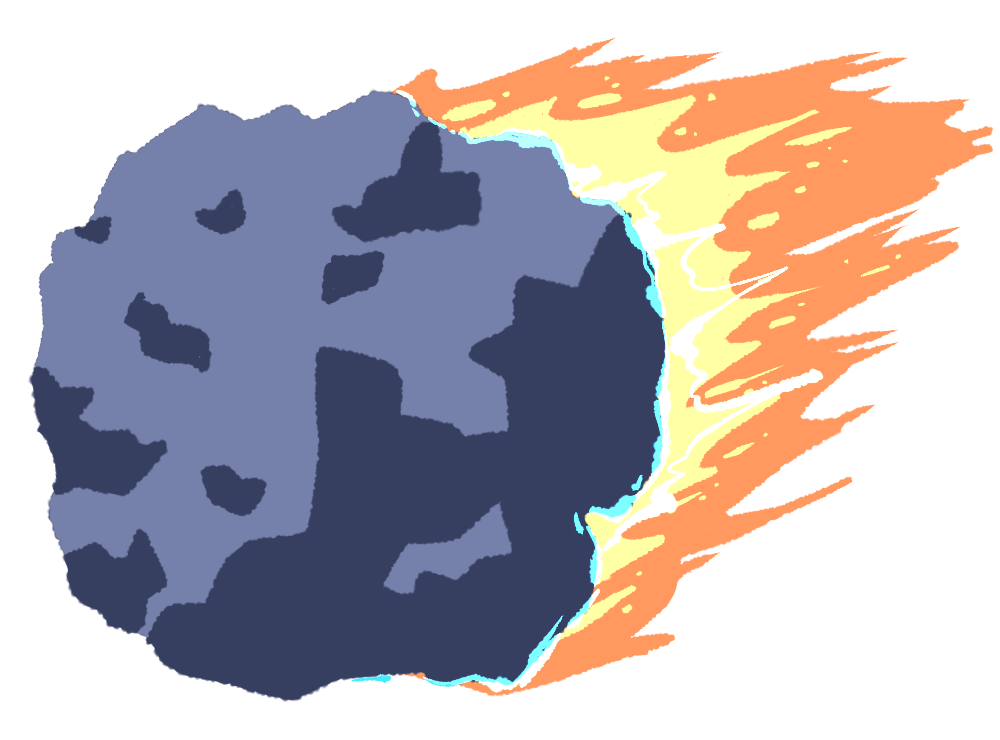
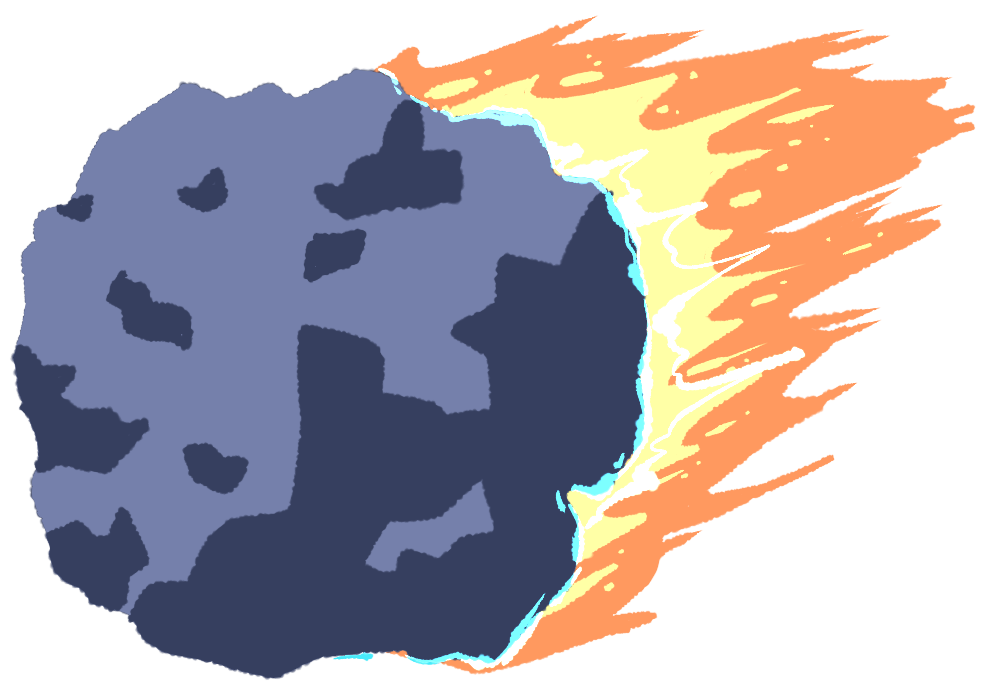
Made another meteor and fixed collision

diff --git a/src/scenes/Play.js b/src/scenes/Play.js
@@ -1,9 +1,9 @@
 class Play extends Phaser.Scene {
     constructor() {
         super("play");
-        this.ded = false;
+        this.ded = 0;
         this.fardplayed = false;
-        this.decimal = 1;
+        this.decimal = 0.8;
     }
 
     preload() {
@@ -11,13 +11,14 @@ class Play extends Phaser.Scene {
 
     create() {
         this.space = this.add.tileSprite(0, 0, 640, 740, 'space').setOrigin(0, 0);
-        this.harold = new Cat(this, game.config.width/2, game.config.height/7, 'harold', 0).setOrigin(0.5, 0.5);
+        this.harold = new Cat(this, game.config.width/2, game.config.height/7, 'harold', 0).setOrigin(0, 0);
         this.harold.setScale(0.2);
-        this.meteor1 = new Meteor(this, Math.random()*game.config.width, game.config.height*1.5, 'meteor', 0).setOrigin(0.5, 0.5);
+        this.meteor1 = new Meteor(this, Math.random()*game.config.width, game.config.height*1.5, 'meteor', 0).setOrigin(0, 0);
         this.meteor1.setScale(0.2);
-        this.dedCat = this.add.tileSprite(game.config.width/2-20, game.config.height/2, 746, 753, 'gameover').setOrigin(0.5, 0.5);
+        this.meteor2 = new Meteor(this, Math.random()*game.config.width, game.config.height*2, 'meteor2', 0).setOrigin(0, 0);
+        this.meteor2.setScale(0.2);
+        this.dedCat = this.add.tileSprite(game.config.width/2, game.config.height/2, 746, 753, 'gameover').setOrigin(0.5, 0.5);
         this.dedCat.alpha = 0;
-
         //making phaser listen for KeyCode LEFT and RIGHT.  keyLEFT and keyRIGHT are global vars defined in main.js
         keyLEFT = this.input.keyboard.addKey(Phaser.Input.Keyboard.KeyCodes.LEFT);
         keyRIGHT = this.input.keyboard.addKey(Phaser.Input.Keyboard.KeyCodes.RIGHT);
@@ -28,10 +29,14 @@ class Play extends Phaser.Scene {
         if(!this.ded) {
             this.harold.update();
             this.meteor1.update();
+            this.meteor2.update();
+            this.ded += this.checkCollision(this.harold, this.meteor1);  
+            this.ded += this.checkCollision(this.harold, this.meteor2);
         }
-        this.ded = this.checkCollision(this.harold, this.meteor1);  //checkCollision is still unfinished
-        if (this.ded) this.dedCat.alpha = 1;
-        if (this.ded && !this.fardplayed) {
+        //this.ded = this.checkCollision(this.harold, this.meteor1);  
+        //this.ded = this.checkCollision(this.harold, this.meteor2);
+        if (this.ded>0) this.dedCat.alpha = 1;
+        if (this.ded>0 && !this.fardplayed) {
             this.sound.play('fard');
             this.fardplayed = true;
         }
@@ -49,7 +54,7 @@ class Play extends Phaser.Scene {
         if (Cat.x < Meteor.x + Meteor.width*Meteor.scale*this.decimal &&
             Meteor.x < Cat.x + Cat.width*Cat.scale*this.decimal &&
             Cat.y < Meteor.y + Meteor.height*Meteor.scale*this.decimal &&
-            Meteor.y < Cat.y + Cat.height*Cat.scale*this.decimal) return true;
-        else return false;
+            Meteor.y < Cat.y + Cat.height*Cat.scale*this.decimal) return 1;
+        else return 0;
     }
 }

diff --git a/src/prefabs/Platform.js b/src/prefabs/Platform.js
@@ -2,7 +2,7 @@ class Meteor extends Phaser.GameObjects.Sprite {
     constructor(scene, x, y, texture, frame, pointValue) {
         super(scene, x, y, texture, frame);
         scene.add.existing(this);
-        this.moveSpeed = 3;
+        this.moveSpeed = 5;
     }
 
     update() {
